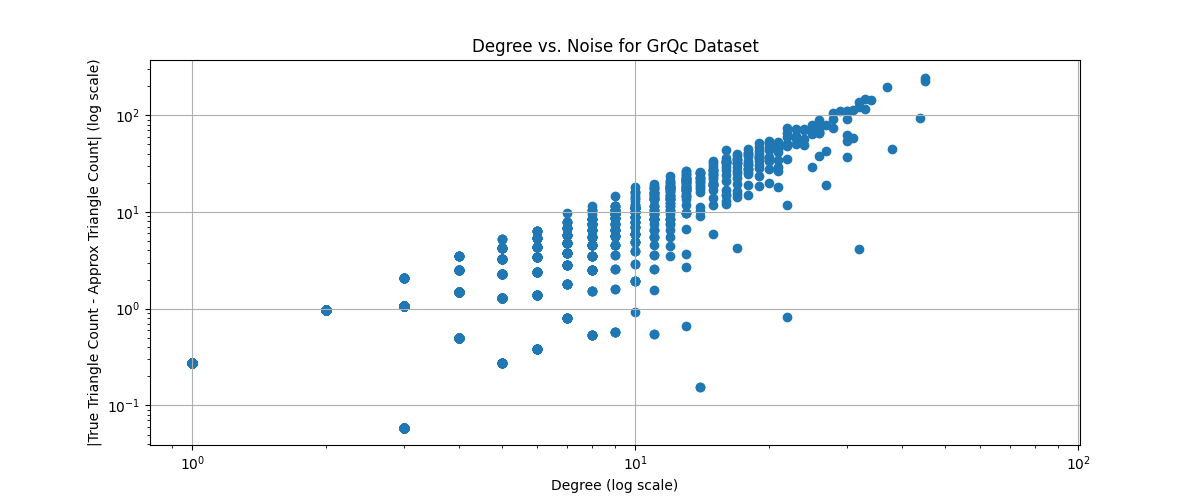
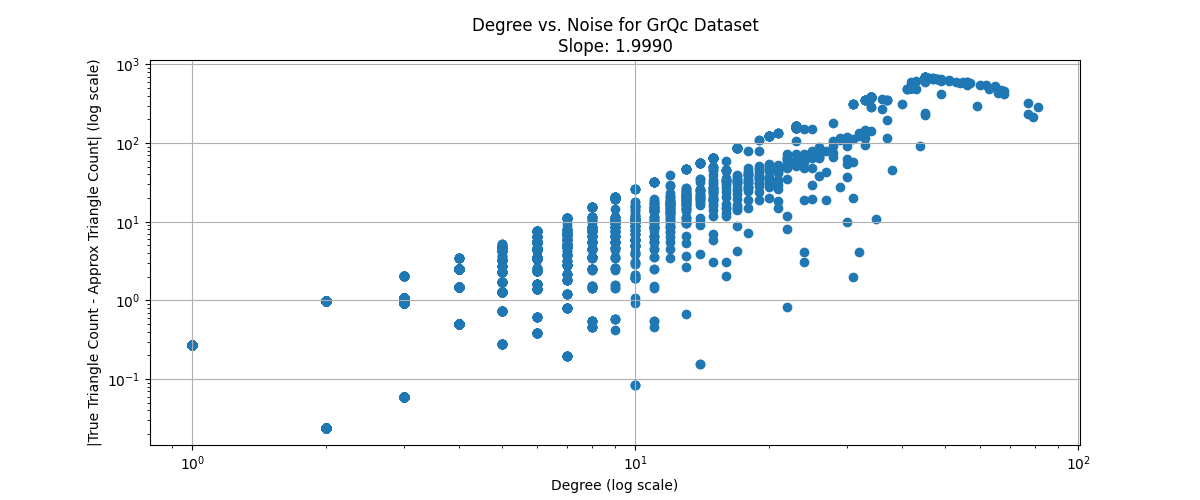
Add slope to degree vs noise plots

diff --git a/thesis.py b/thesis.py
@@ -567,9 +567,16 @@ def plot_degree_vs_noise(A, dataset_name):
   degree_array = np.sum(A, axis=1)
   approx_triangles = np.power(degree_array, slope) * np.exp(intercept)
 
-  true_triangles = [count_node_triangles(A, i) for i in range(n)]
+  true_triangles = np.array([count_node_triangles(A, i) for i in range(n)])
 
-  diff_array = approx_triangles - true_triangles
+  diff_array = np.abs(approx_triangles - true_triangles)
+
+  # filter out zero values to avoid log issues
+  valid_mask = (degree_array > 0) & (diff_array > 0)
+  log_degree = np.log(degree_array[valid_mask])
+  log_diff = np.log(diff_array[valid_mask])
+
+  slope, intercept = np.polyfit(log_degree, log_diff, 1)
 
   plt.figure(figsize=(12, 5))
   plt.scatter(degree_array, diff_array, marker='o')
@@ -577,19 +584,21 @@ def plot_degree_vs_noise(A, dataset_name):
   plt.yscale('log')
   plt.xlabel('Degree (log scale)')
   plt.ylabel('|True Triangle Count - Approx Triangle Count| (log scale)')
-  plt.title(f'Degree vs. Noise for {dataset_name} Dataset')
+  plt.title(f'Degree vs. Noise for {dataset_name} Dataset\nSlope: {slope:.4f}')
   plt.grid(True)
   plt.savefig(f'plots/degree_vs_noise/{dataset_name}_degree_vs_noise.png')
   plt.close()
 
+  print(f"Slope for {dataset_name}: {slope:.4f}")
+
 if __name__ == '__main__':
-  # file_path = 'data/facebook_combined.txt'
-  # node_count = 4039
-  # true_triangle_count = 1612010
+  file_path = 'data/facebook_combined.txt'
+  node_count = 4039
+  true_triangle_count = 1612010
   
-  file_path = 'data/ca-GrQc_mapped.txt'
-  node_count = 5242
-  true_triangle_count = 48296
+  # file_path = 'data/ca-GrQc_mapped.txt'
+  # node_count = 5242
+  # true_triangle_count = 48296
 
   # file_path = 'data/musae_crocodile.csv'
   # node_count = 11631
